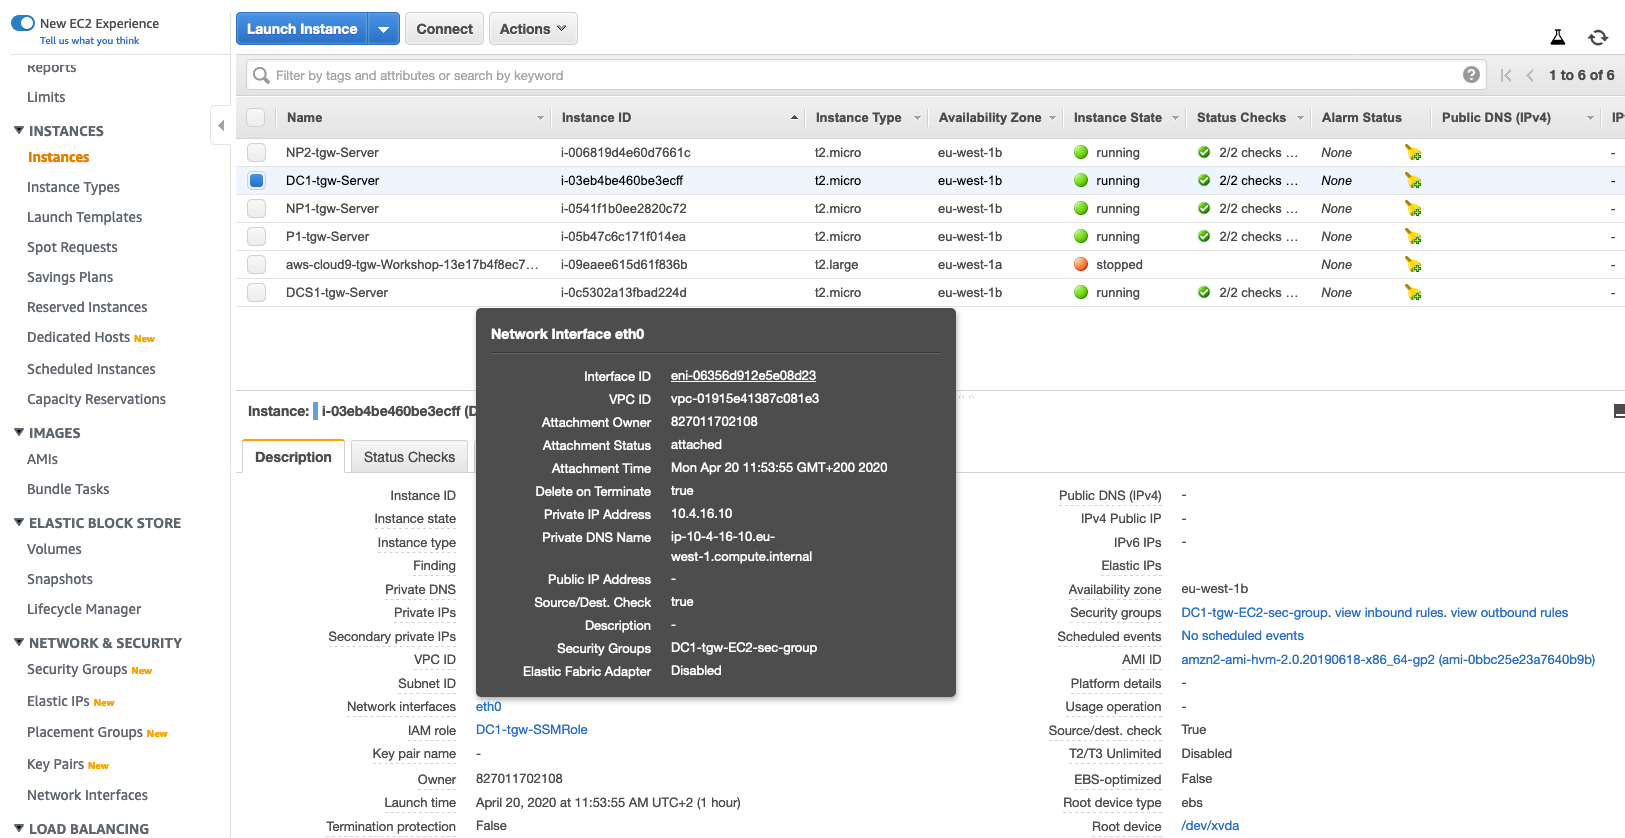
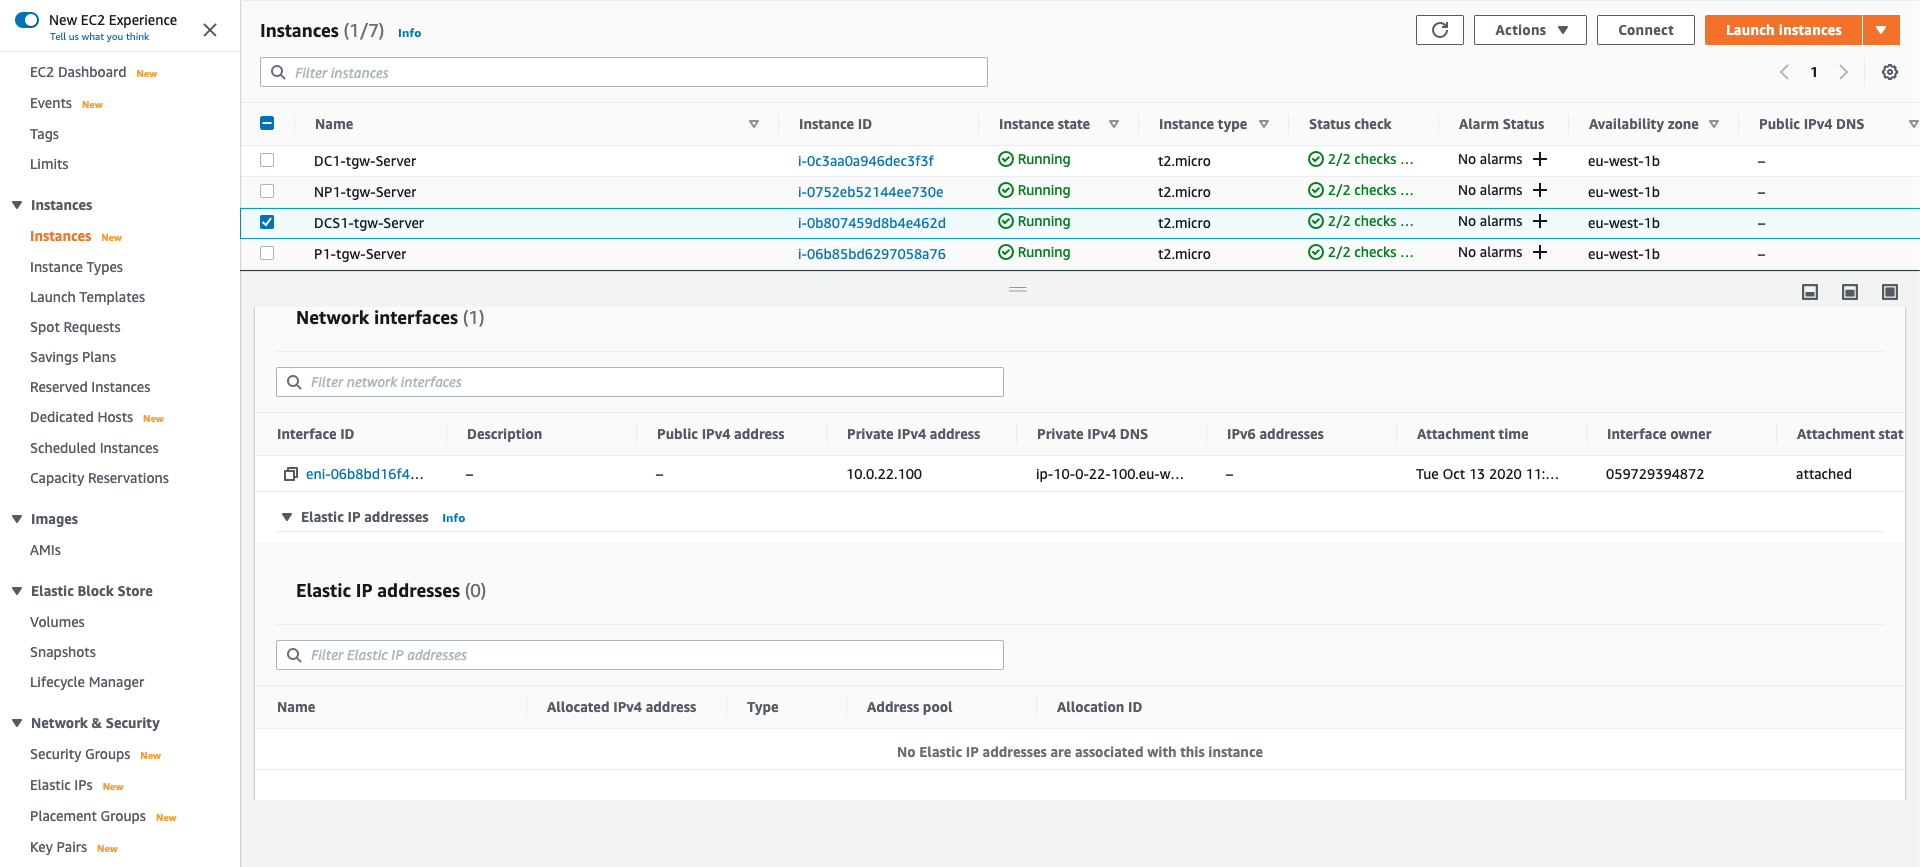
customer suggested updating to new GUI for this section

diff --git a/1-vpc-components/50-Investigate_VPCs.md b/1-vpc-components/50-Investigate_VPCs.md
@@ -77,7 +77,7 @@ As a last comment in this section, the "Attachment" subnets are intended to serv
 ## Elastic Network Interfaces (ENIs)
 
 ENIs are widely used across many AWS resources, including EC2 instances. An ENI is a way to position a resource within a VPC, meaning reserving an ip for that resource to communicate within the VPC.  As part of this deployment, CloudFormation has created several EC2 instances for us. Each of these EC2 instances will have one or more ENIs (depending on the size of the instance) within the subnet (VPC) they landed on.</br>
-Navigate to the EC2 section of the console (browsing through Services -> EC2 at the top left) and locate the DC1 server. You can see how the server interface "eth0" is mapped to an ENI:
+Navigate to the EC2 section of the console (browsing through Services -> EC2 at the top left) and locate the DC1 server. Put a check in the box next to the server. In the informal page underneath you can see the subnet the server has been deployed toi. If you click on the **Networking** tab you will be able to see the network interface details:
 
    ![VPCs](../images/enis.png)
 
